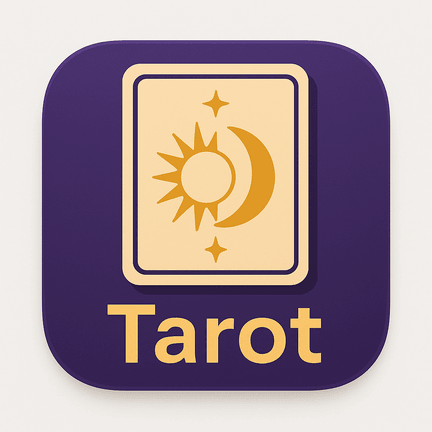
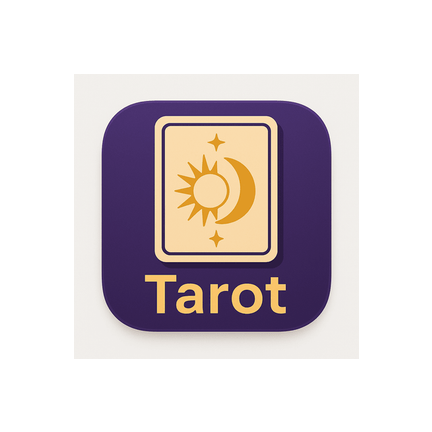
修复了Android的应用ICON

diff --git a/my-tarot-app/scripts/fix-android-foreground.js b/my-tarot-app/scripts/fix-android-foreground.js
@@ -1,0 +1,46 @@
+const fs = require("fs");
+const path = require("path");
+const sharp = require("sharp");
+
+(async () => {
+  const target = path.join(__dirname, "..", "assets", "images", "android-icon-foreground.png");
+  if (!fs.existsSync(target)) {
+    console.error("Foreground icon not found:", target);
+    process.exit(1);
+  }
+  const backup = target.replace(/\.png$/, ".original.png");
+  if (!fs.existsSync(backup)) {
+    fs.copyFileSync(target, backup);
+    console.log("Backed up original to", backup);
+  }
+
+  const SIZE = 432; // Expo recommended adaptive foreground size
+  const SAFE = Math.round(SIZE * 0.66); // 66% safe zone per Android guidelines
+
+  const input = sharp(target);
+  const meta = await input.metadata();
+  console.log("Input meta:", { width: meta.width, height: meta.height, hasAlpha: meta.hasAlpha, format: meta.format });
+
+  // Resize content to SAFE area, maintaining aspect ratio
+  const content = await input
+    .resize({ width: SAFE, height: SAFE, fit: "inside", withoutEnlargement: false })
+    .toBuffer();
+
+  // Create transparent canvas and composite centered
+  const canvas = sharp({
+    create: {
+      width: SIZE,
+      height: SIZE,
+      channels: 4,
+      background: { r: 0, g: 0, b: 0, alpha: 0 }
+    }
+  });
+
+  const out = await canvas
+    .composite([{ input: content, gravity: "center" }])
+    .png()
+    .toBuffer();
+
+  fs.writeFileSync(target, out);
+  console.log("Wrote padded foreground icon:", target, `(safe=${SAFE})`);
+})();

diff --git a/my-tarot-app/scripts/fix-lines.js b/my-tarot-app/scripts/fix-lines.js
@@ -1,0 +1,8 @@
+const fs = require("fs");
+const path = require("path");
+const file = path.join(__dirname, "..", "lib", "database", "connection.ts");
+let lines = fs.readFileSync(file, "utf8").split(/\r?\n/);
+lines[165] = "        throw new Error('Failed to load config database asset: ' + (assetError instanceof Error ? assetError.message : 'Unknown error'));";
+lines[209] = "      throw new Error('Failed to copy/verify config database: ' + (error instanceof Error ? error.message : 'Unknown error'));";
+fs.writeFileSync(file, lines.join("\n"));
+console.log("fixed-lines");

diff --git a/my-tarot-app/scripts/patch-conn.js b/my-tarot-app/scripts/patch-conn.js
@@ -1,0 +1,10 @@
+const fs = require('fs');
+const path = require('path');
+const file = path.join(__dirname, '..', 'lib', 'database', 'connection.ts');
+let s = fs.readFileSync(file, 'utf8');
+const lines = s.split(/\r?\n/);
+const start = 156; const end = 192; // inclusive
+const method = fs.readFileSync(path.join(__dirname, 'new-method.txt'), 'utf8').replace(/\r?\n$/, '');
+lines.splice(start-1, end-start+1, method);
+fs.writeFileSync(file, lines.join('\n'));
+console.log('patched connection.ts ensureConfigDatabaseCopied');
